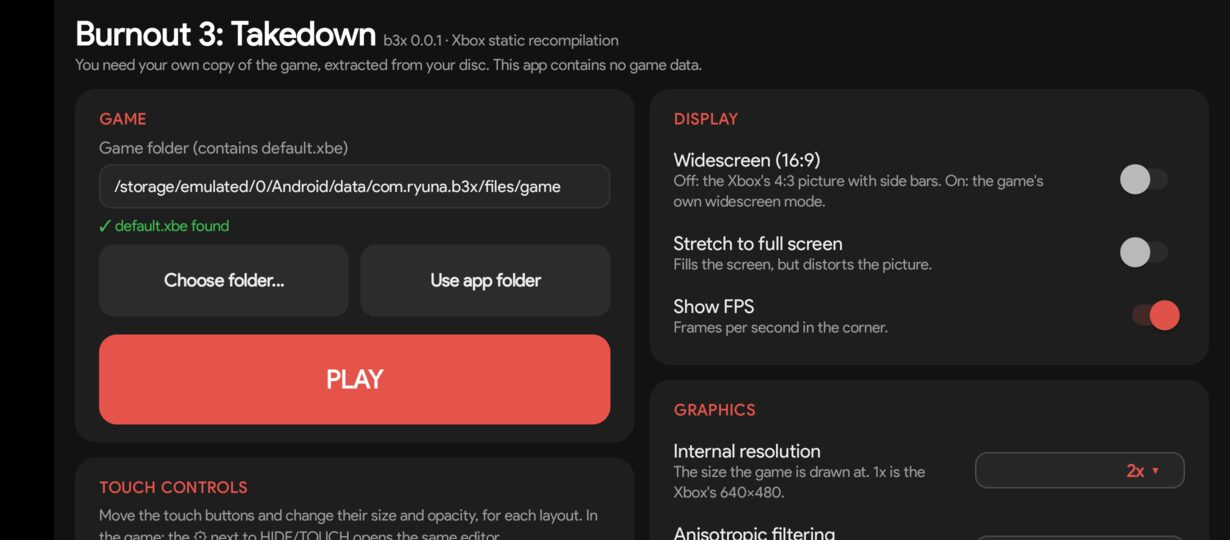
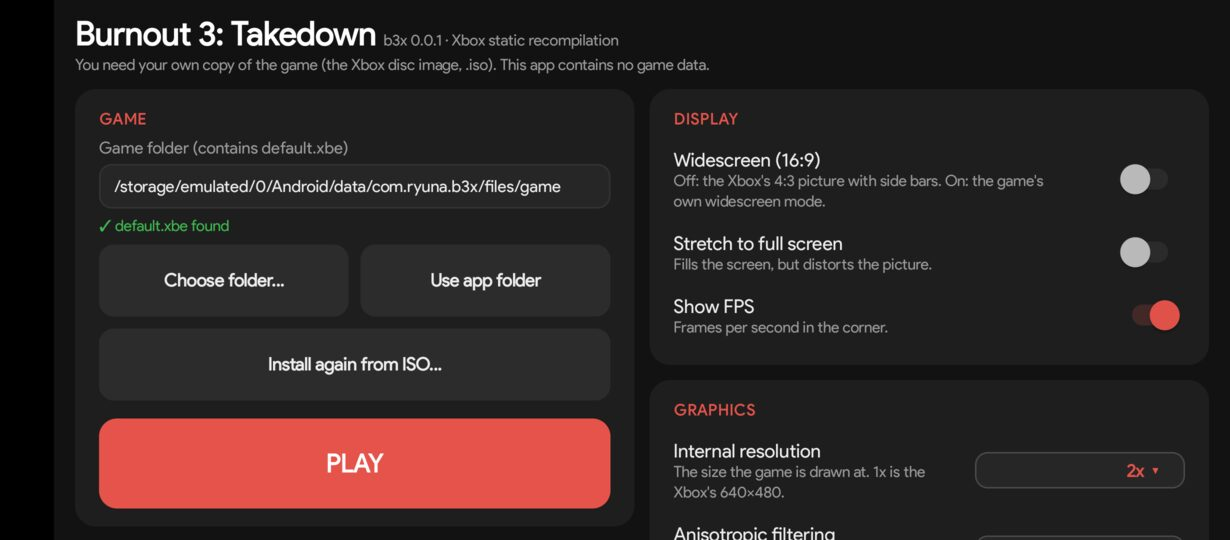
README: first-run flow (ISO or extracted folder) and architecture as Mermaid diagrams
- Quick start: the two ways to give the launcher the game (INSTALL FROM
  ISO… or a folder extracted on a PC), with a flowchart of the launcher
  logic (checks, game.tmp/ extraction, cancel/failure paths, UDATA kept,
  All files access for outside folders, ☰ back to the launcher).
- How it works: the PC build pipeline and the phone runtime as a
  flowchart instead of ASCII.
- Diagrams checked with mermaid-cli.
- Screenshots of the ISO install on the Infinix: first run, extraction
  (~290 MB/s), done (716 files in 8 s), installed launcher.
- android-devices.md: ISO install result.

Changed region(s): [[0.0618, 0.5926, 0.4943, 1.0], [0.2472, 0.0889, 0.587, 0.1481]]

diff --git a/README.md b/README.md
@@ -52,28 +52,65 @@ internal resolution 2x, the Drive touch layout.
     <td><img src="docs/screenshots/android/menu.jpg" alt="Main menu"><br><sub>Main menu, profile loaded</sub></td>
   </tr>
   <tr>
-    <td><img src="docs/screenshots/android/launcher.jpg" alt="Launcher"><br><sub>Launcher: game folder, display, graphics, controls</sub></td>
+    <td><img src="docs/screenshots/android/launcher-iso.jpg" alt="First run"><br><sub>First run: INSTALL FROM ISO… or choose an extracted folder</sub></td>
+    <td><img src="docs/screenshots/android/iso-progress.jpg" alt="Extracting"><br><sub>Extracting the .iso on the phone (~290 MB/s)</sub></td>
+  </tr>
+  <tr>
+    <td><img src="docs/screenshots/android/iso-done.jpg" alt="Installed"><br><sub>716 files in 8 s; keep or delete the .iso</sub></td>
+    <td><img src="docs/screenshots/android/launcher.jpg" alt="Launcher"><br><sub>Installed: PLAY, the folder can still be changed</sub></td>
+  </tr>
+  <tr>
     <td><img src="docs/screenshots/android/menu-pause.jpg" alt="In-game menu"><br><sub>☰ in-game menu: resume, edit layout, exit</sub></td>
+    <td></td>
   </tr>
 </table>
 
 ## 🚀 Quick start
 
-1. **Get the disc image** of your own Xbox disc: Burnout 3: Takedown, NTSC-U
-   (`.iso`, an "XISO" image of ~2.4 GB). Copy it to the phone, e.g.
-   `Download/`.
-2. **Install the APK** and open **b3x**.
-3. **First run:** tap **INSTALL FROM ISO…** and pick the `.iso`. The launcher
-   checks it (XDVDFS, title `4541005B`, free space), extracts it once into the
-   app's folder with a progress bar (about 1-3 min), then offers to delete
-   the `.iso`.
-4. **PLAY.** From then on the launcher goes straight to PLAY; the ISO is not
-   needed again.
+1. **Install the APK** and open **b3x**.
+2. **Give it the game**, one of two ways:
+   - **From the disc image** — copy your `.iso` (Burnout 3: Takedown, Xbox
+     NTSC-U, ~2.4 GB) to the phone, e.g. `Download/`, tap **INSTALL FROM
+     ISO…** and pick it. The launcher checks it, extracts it once into the
+     app's folder (8 s on the Infinix) and offers to delete the `.iso`.
+   - **Already extracted on a PC** — copy the folder (the one with
+     `default.xbe`) to the phone and point the launcher at it: **Choose
+     folder…**, type the path, or put it in
+     `Android/data/com.ryuna.b3x/files/game/` and tap **Use app folder**.
+3. **PLAY.** Next time the launcher goes straight to PLAY.
 
-Already have the disc extracted? Put the folder (with `default.xbe`) in
-`Android/data/com.ryuna.b3x/files/game/`, or anywhere and pick it with
-*Choose folder…* (asks for *All files access*). Saves live in the game
-folder's `UDATA/` and survive a reinstall from ISO.
+```mermaid
+flowchart TD
+    A([Open b3x]) --> B{default.xbe in<br/>the game folder?}
+    B -->|yes| P[PLAY]
+    B -->|no| C{What do you have?}
+
+    C -->|the disc image .iso| I[INSTALL FROM ISO…<br/>pick the .iso]
+    C -->|a folder extracted on a PC| F[Choose folder… / type the path<br/>/ Use app folder]
+
+    I --> V{Xbox image?<br/>title 4541005B?<br/>enough free space?}
+    V -->|no| E[Error message:<br/>not an Xbox image, wrong game,<br/>or not enough space]
+    E --> C
+    V -->|yes| X[Extract into game.tmp/<br/>progress · MB/s · Cancel]
+    X -->|cancelled or failed| D[game.tmp/ removed,<br/>old game untouched]
+    D --> C
+    X -->|done| R[Rename game.tmp/ to game/<br/>saves in UDATA/ kept]
+    R --> Q[Offer to delete the .iso]
+    Q --> OK[Game installed ✓]
+    OK --> P
+
+    F --> G{Outside the app's folder?}
+    G -->|yes| H[Grant All files access]
+    H --> B
+    G -->|no| B
+
+    P --> S[Game: Xbox 4:3 picture,<br/>touch pad or controller]
+    S -->|☰ → Exit to launcher| A
+```
+
+The two ways can be mixed: **Install again from ISO…** stays on the Game
+card after a first install, and the folder can be changed at any time.
+Saves live in the game folder's `UDATA/`; a reinstall from ISO keeps them.
 
 ## ✨ Features
 
@@ -142,15 +179,26 @@ Requirements: Android 11 (API 30) or newer, arm64-v8a, Vulkan 1.1, about
 
 ## 🧩 How it works
 
-```
-default.xbe ──(xboxrecomp lifter, x86 → C)──▶ .work/gen/*.c  ┐
-                                                            ├─▶ libmain.so (NDK, arm64)
-xboxrecomp runtime: Xbox kernel, memory, threads ───────────┤
-NV2A push-buffer executor  → nv2a_vk (Vulkan) ──────────────┤
-MCPX APU (voices, DSP)     → SDL audio ─────────────────────┤
-USB gamepad                → touch pad / SDL GameController ┘
-                                                              │
-android/ (SDLActivity + launcher, touch pad, editor) ─────────▶ b3x.apk
+```mermaid
+flowchart LR
+    subgraph Build[On the PC, once per change]
+        XBE[default.xbe] -->|xboxrecomp lifter<br/>x86 → C| GEN[.work/gen/*.c]
+        GEN --> NDK[NDK clang -O2]
+        RT[xboxrecomp runtime<br/>kernel, memory, threads] --> NDK
+        NDK --> SO[libmain.so arm64]
+        JAVA[android/ Java<br/>launcher, touch pad, editor] --> APK[b3x.apk]
+        SO --> APK
+    end
+
+    subgraph Phone[On the phone]
+        ISO[(your .iso or<br/>extracted folder)] --> LAUNCH[Launcher]
+        LAUNCH -->|game/ + settings files| GAME[Game process :game]
+        GAME --> GPU[NV2A push buffers<br/>to Vulkan via nv2a_vk]
+        GAME --> APU[MCPX APU<br/>to SDL audio]
+        PAD[Touch pad or controller] -->|XInput port 1| GAME
+    end
+
+    APK --> LAUNCH
 ```
 
 - The guest's 4 GB address space is reserved once; the XBE, the 64 MB of RAM

diff --git a/docs/research/android-devices.md b/docs/research/android-devices.md
@@ -74,3 +74,11 @@ Build `e2654f1` + the ☰ menu, internal resolution 2x, Drive touch layout:
 - ☰ → Exit to launcher ends the `:game` process and returns to the
   launcher; PLAY then starts a fresh game.
 - Not tested yet: a physical controller, tilt steering, FXAA on Mali.
+
+## Install from ISO (2026-10-14)
+
+`Burnout 3 - Takedown (USA).iso` (2,476,867,584 bytes, XISO at base 0) in
+`Download/`, picked with the system file picker: checked (title 4541005B),
+716 files / 2.36 GB extracted into `<app files>/game` in 8 s (~290 MB/s),
+`UDATA` saves kept, PLAY reaches Crash Nav at 60 fps. The same extractor
+on the PC gives files identical (md5) to xiso's `roms/game`.
